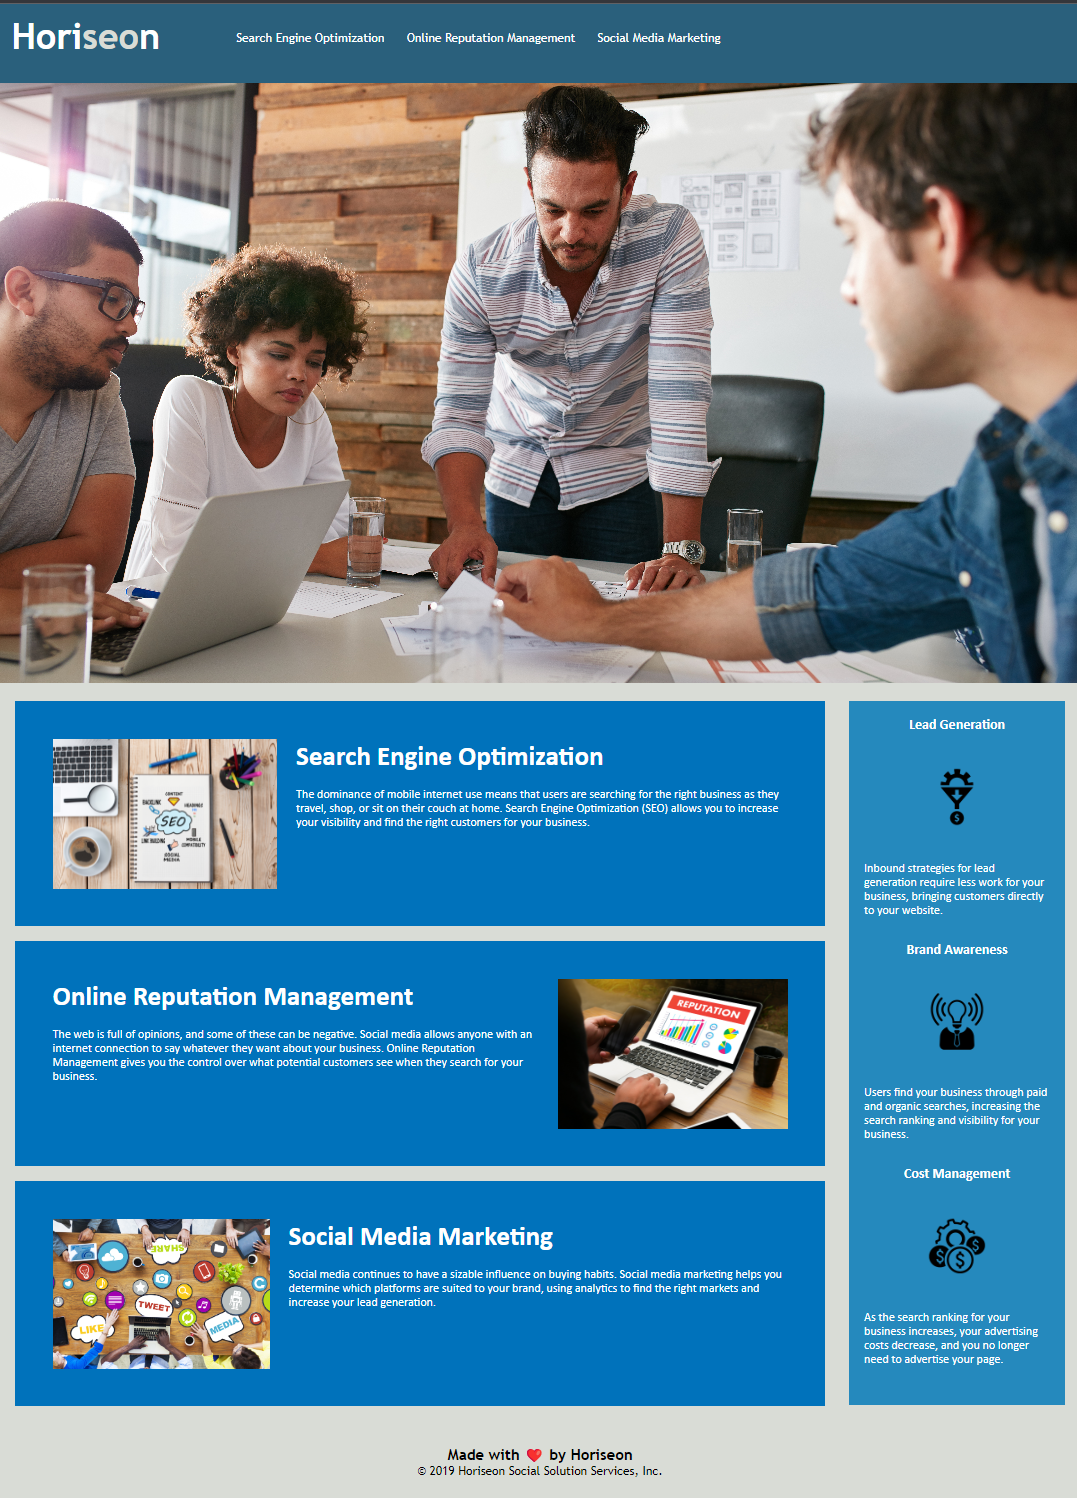
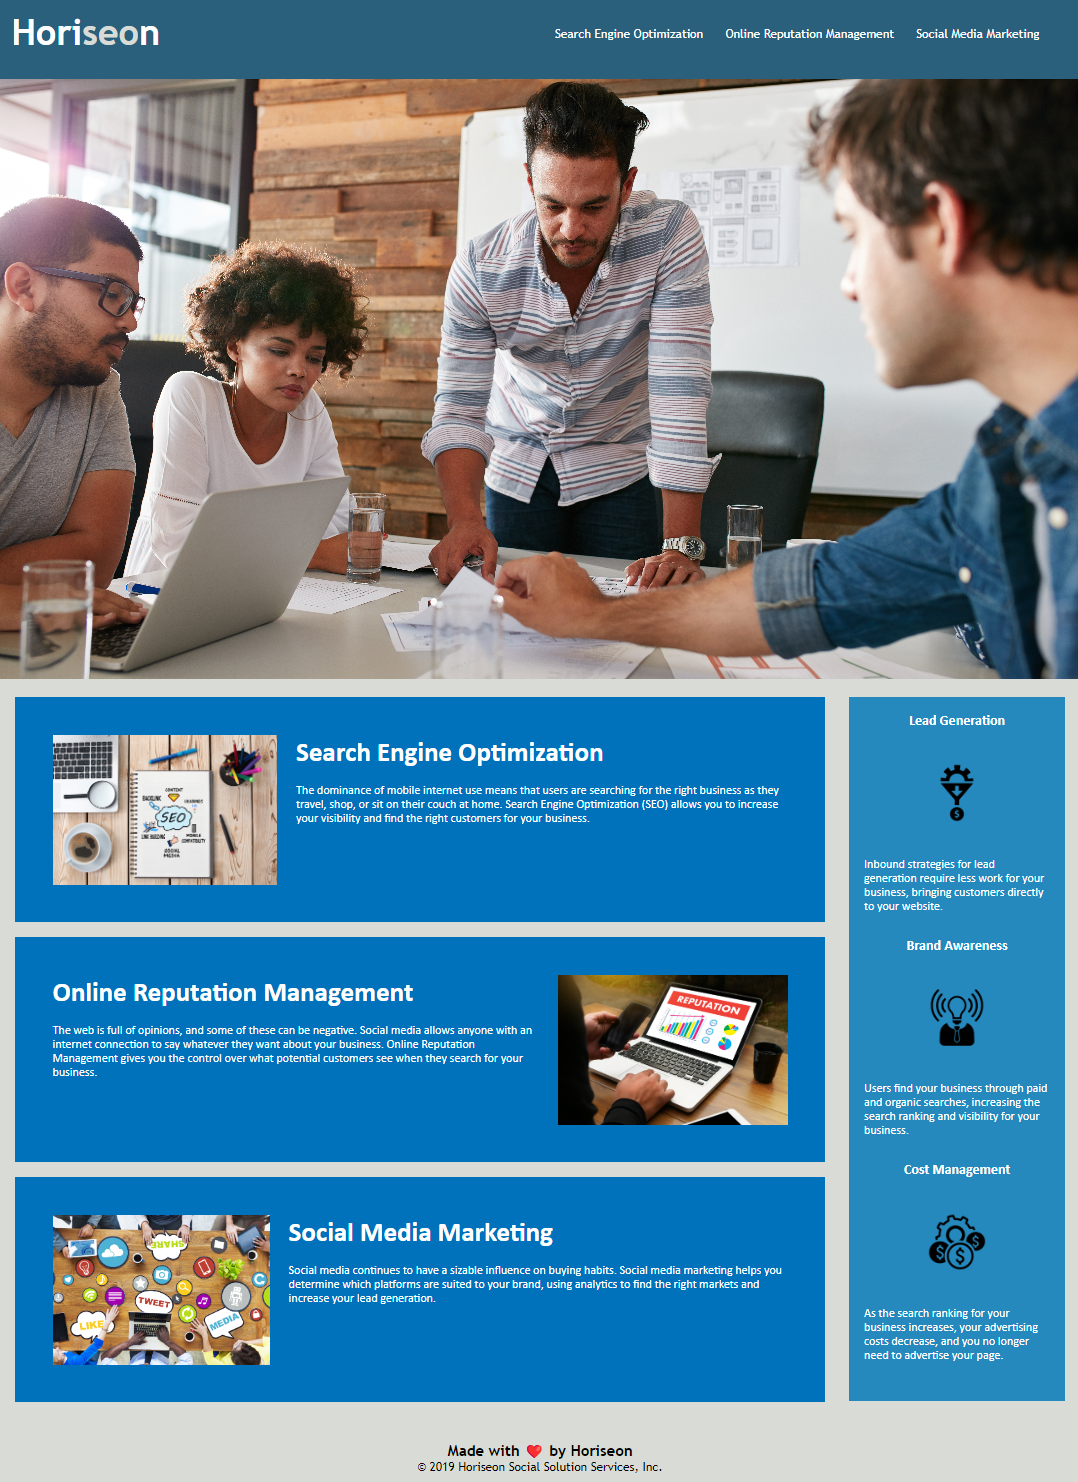
had to fix navbar and update screenshot

diff --git a/assets/css/style.css b/assets/css/style.css
@@ -35,7 +35,7 @@ body {
 .header nav ul {
     list-style-type: none;
     position: relative;
-    left: 275px;
+    left: 700px;
     bottom: 35px;
 }
 
